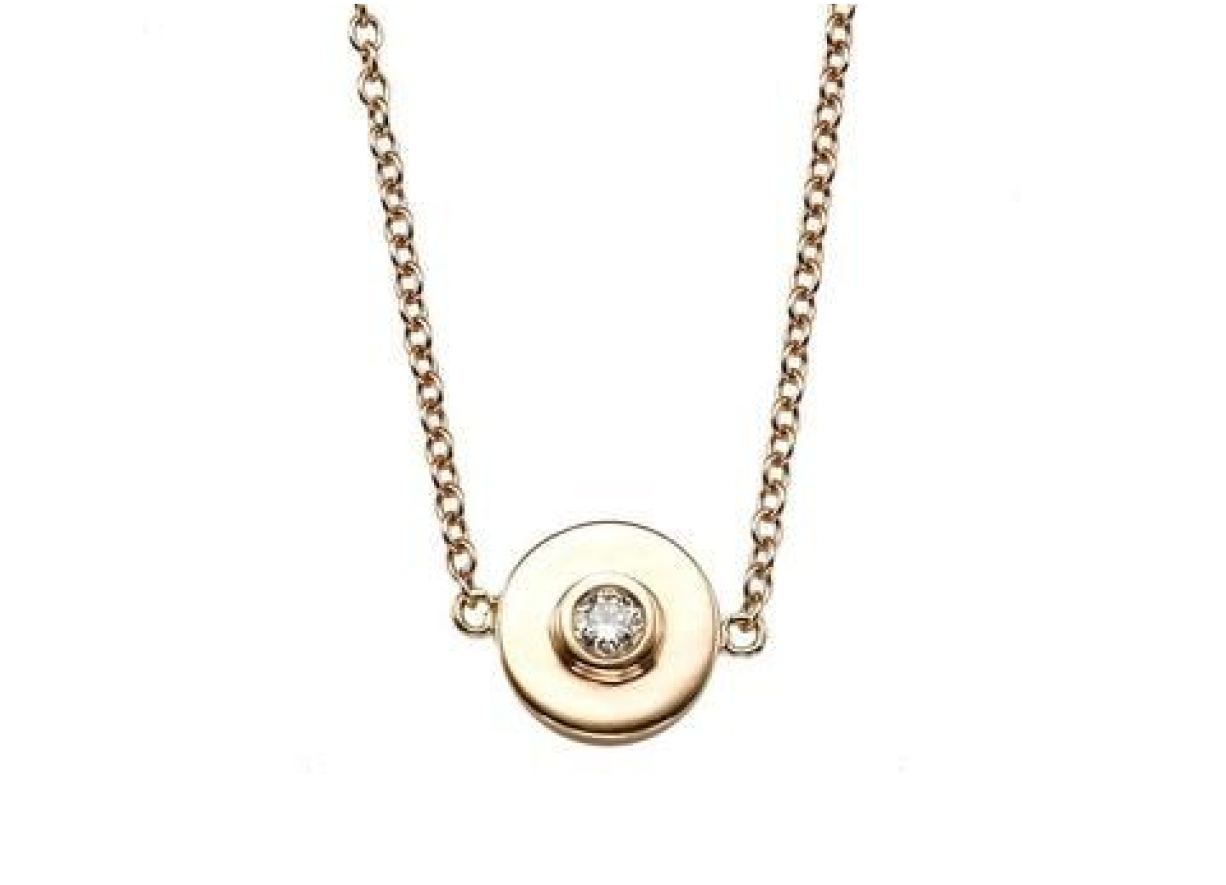
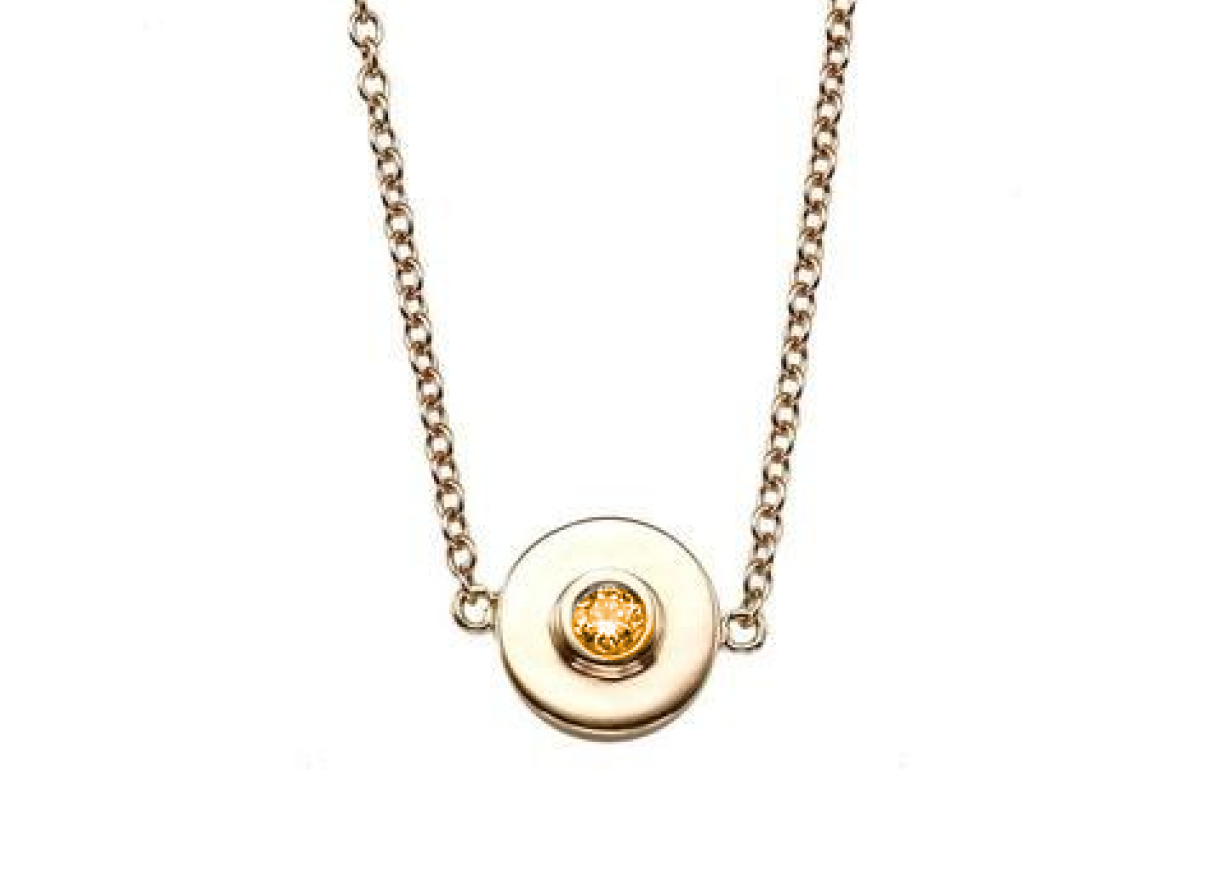
Brazalete Anahuac

Changed region(s): [[0.279, 0.0, 0.7129, 0.8552]]

diff --git a/Brazalete_Anahuac.html b/Brazalete_Anahuac.html
@@ -4,8 +4,8 @@
 <head>
 	<meta charset="utf-8">
 	<meta name="viewport" content="width=device-width, initial-scale=1">
-	<title>Brazalete Tec de Monterrey</title>
-	<link rel="stylesheet" type="text/css" href="StyleBrazaleteTEC.css">
+	<title>Brazalete Anáhuac</title>
+	<link rel="stylesheet" type="text/css" href="StyleBrazaleteAnahuac.css">
 	<script src="javascript (1).js"></script>
 	<script src="https://kit.fontawesome.com/fa5bc6c071.js" crossorigin="anonymous"></script>
 	<script defer src="jsHome.js"></script>
@@ -38,16 +38,17 @@
 		<div class="row">
 
 			<div class="left">
-				<img src="ImágenesWeb/Brazalete/Full View/BrazaleteTecFV.png" alt="">
+				<img src="ImágenesWeb/Brazalete/Full View/BrazaleteAnahuacFV.png" alt="">
 			</div>
 
 			<div class="right">
 				<div class="content">
-					<h1>Brazalete Tec</h1>
+					<h1>Brazalete Anáhuac</h1>
 
 					<h2>$3,000</h2>
 
-					<p>Captura la esencia del Tec de Monterrey con nuestro brazalete conmemorativo de plata, donde las circonias plateadas y azules simbolizan la innovación y el espíritu emprendedor que caracterizan a esta institución líder en educación superior. Lleva contigo el orgullo de ser un EXATEC y celebra tus logros con elegancia y estilo.</p>
+					<p>Nuestro brazalete conmemorativo de plata, adornado con circonias plateadas y ambar, es 
+					un tributo a tu paso por la Universidad Anáhuac. Su diseño elegante y sofisticado representa los valores de excelencia y humanismo que te impulsaron en tu camino académico.</p>
 				</div>
 		</div>
 
@@ -58,14 +59,13 @@
 	</div>
 
 	<div class="UnivWrapper">
-		<a href="Brazalete_TEC.html"><img src= "ImágenesWeb/LogosUniversidades/TecColor.png" alt="" class="Iconos"></a>
-		<a href="Brazalete_TEC.html"><img src= "ImágenesWeb/LogosUniversidades/AnahuacGrey.png" alt="" class="Iconos"></a>
-		<a href="Brazalete_TEC.html"><img src= "ImágenesWeb/LogosUniversidades/UnamGrey.png" alt="" class="Iconos"></a>
-		<a href="Brazalete_TEC.html"><img src= "ImágenesWeb/LogosUniversidades/ItamGrey.png" alt="" class="Iconos"></a>
-		<a href="Brazalete_TEC.html"><img src= "ImágenesWeb/LogosUniversidades/IberoGrey.png" alt="" class="Iconos"></a>
-		<a href="Brazalete_TEC.html"><img src= "ImágenesWeb/LogosUniversidades/UpGrey.png" alt="" class="Iconos"></a>
-		<a href="Brazalete_TEC.html"><img src= "ImágenesWeb/LogosUniversidades/LaSalleGrey.png" alt="" class="Iconos"></a>
-
+		<a href="Brazalete_TEC.html"><img src= "ImágenesWeb/LogosUniversidades/TecGrey.png" alt="" class="Iconos"></a>
+		<a href="Brazalete_Anahuac.html"><img src= "ImágenesWeb/LogosUniversidades/AnahuacColor.png" alt="" class="Iconos"></a>
+		<a href="Brazalete_UNAM.html"><img src= "ImágenesWeb/LogosUniversidades/UnamGrey.png" alt="" class="Iconos"></a>
+		<a href="Brazalete_ITAM.html"><img src= "ImágenesWeb/LogosUniversidades/ItamGrey.png" alt="" class="Iconos"></a>
+		<a href="Brazalete_IBERO.html"><img src= "ImágenesWeb/LogosUniversidades/IberoGrey.png" alt="" class="Iconos"></a>
+		<a href="Brazalete_UP.html"><img src= "ImágenesWeb/LogosUniversidades/UpGrey.png" alt="" class="Iconos"></a>
+		<a href="Brazalete_LaSalle.html"><img src= "ImágenesWeb/LogosUniversidades/LaSalleGrey.png" alt="" class="Iconos"></a>
 	</div>
 
 	<div class="divisor"></div>
@@ -79,12 +79,12 @@
 	<div class="row-related">
 
 			<div class="left-related">
-				<img src="ImágenesWeb/Collar/Preview/CollarTecMin.png" alt="">
+				<img src="ImágenesWeb/Collar/Preview/CollarAnahuacMin.png" alt="">
 			</div>
 
 			<div class="right-related">
 				<div class="content">
-					<h4>Collar Tec</h4>
+					<h4>Collar Anáhuac</h4>
 
 					<a href="#">Descubre</a>
 				</div>

diff --git a/Brazalete_TEC.html b/Brazalete_TEC.html
@@ -59,12 +59,12 @@
 
 	<div class="UnivWrapper">
 		<a href="Brazalete_TEC.html"><img src= "ImágenesWeb/LogosUniversidades/TecColor.png" alt="" class="Iconos"></a>
-		<a href="Brazalete_TEC.html"><img src= "ImágenesWeb/LogosUniversidades/AnahuacGrey.png" alt="" class="Iconos"></a>
-		<a href="Brazalete_TEC.html"><img src= "ImágenesWeb/LogosUniversidades/UnamGrey.png" alt="" class="Iconos"></a>
-		<a href="Brazalete_TEC.html"><img src= "ImágenesWeb/LogosUniversidades/ItamGrey.png" alt="" class="Iconos"></a>
-		<a href="Brazalete_TEC.html"><img src= "ImágenesWeb/LogosUniversidades/IberoGrey.png" alt="" class="Iconos"></a>
-		<a href="Brazalete_TEC.html"><img src= "ImágenesWeb/LogosUniversidades/UpGrey.png" alt="" class="Iconos"></a>
-		<a href="Brazalete_TEC.html"><img src= "ImágenesWeb/LogosUniversidades/LaSalleGrey.png" alt="" class="Iconos"></a>
+		<a href="Brazalete_Anahuac.html"><img src= "ImágenesWeb/LogosUniversidades/AnahuacGrey.png" alt="" class="Iconos"></a>
+		<a href="Brazalete_UNAM.html"><img src= "ImágenesWeb/LogosUniversidades/UnamGrey.png" alt="" class="Iconos"></a>
+		<a href="Brazalete_ITAM.html"><img src= "ImágenesWeb/LogosUniversidades/ItamGrey.png" alt="" class="Iconos"></a>
+		<a href="Brazalete_IBERO.html"><img src= "ImágenesWeb/LogosUniversidades/IberoGrey.png" alt="" class="Iconos"></a>
+		<a href="Brazalete_UP.html"><img src= "ImágenesWeb/LogosUniversidades/UpGrey.png" alt="" class="Iconos"></a>
+		<a href="Brazalete_LaSalle.html"><img src= "ImágenesWeb/LogosUniversidades/LaSalleGrey.png" alt="" class="Iconos"></a>
 
 	</div>
 
@@ -114,6 +114,7 @@
 	</div>
 
 </footer>
+
 </body>
 
 	
